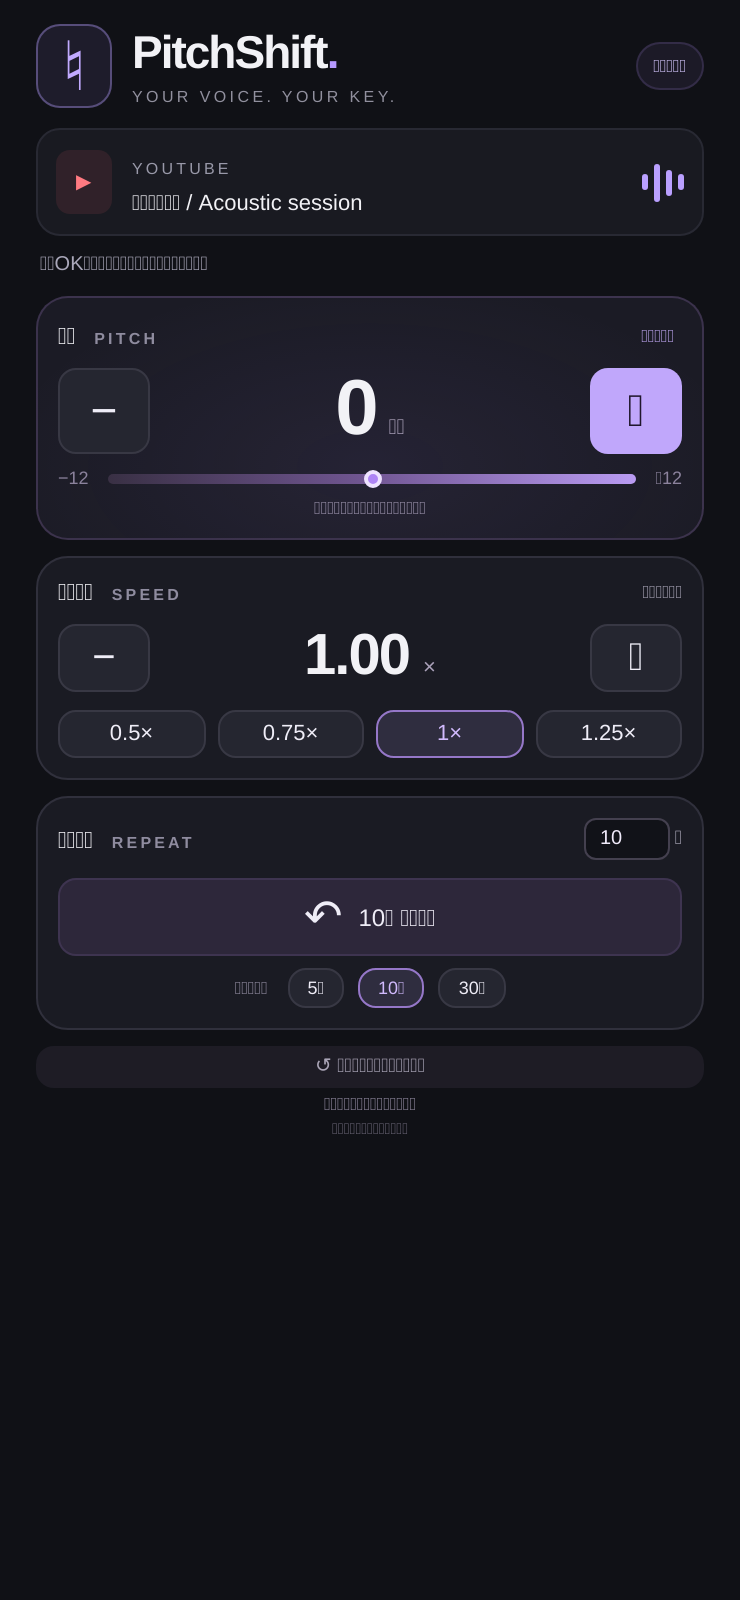
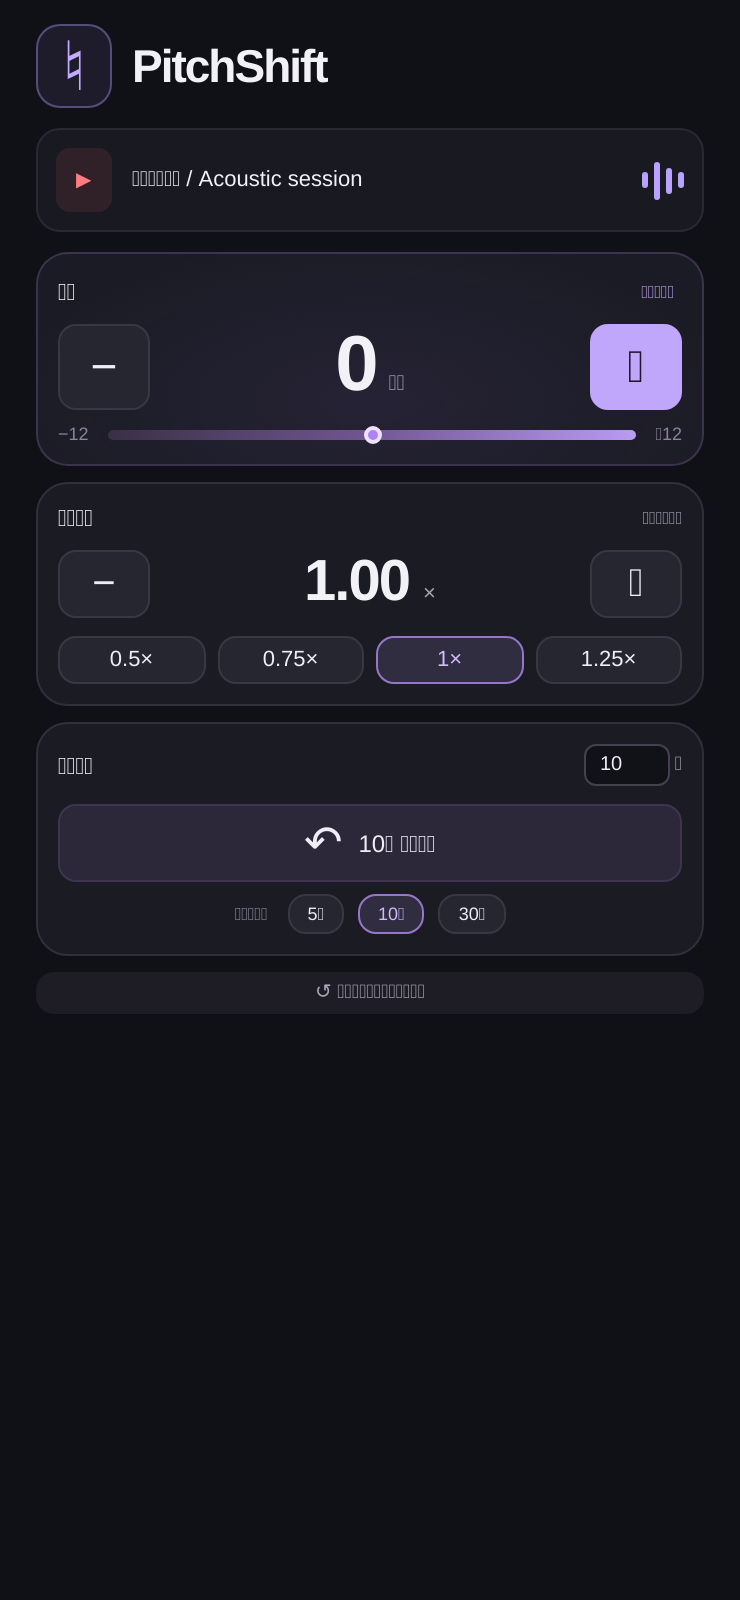
style: remove decorative popup copy

diff --git a/public/popup.css b/public/popup.css
@@ -1,4 +1,6 @@
-:root{font-family:Inter,-apple-system,BlinkMacSystemFont,"Segoe UI","Noto Sans JP",sans-serif;color:#f2f2f6;background:#101116;font-synthesis:none;color-scheme:dark}*{box-sizing:border-box}body{margin:0;width:370px}main{padding:23px 21px 18px}header,.brand,.section-heading,.stepper,.scale,.rewind-presets{display:flex;align-items:center;justify-content:space-between}.brand{gap:10px}.logo{display:grid;place-items:center;width:38px;height:42px;border:1px solid #b6a0fb60;border-radius:12px;background:#aa88ff18;color:#c1aaff;font-size:34px}h1{font-size:23px;letter-spacing:-1px;margin:0;font-weight:750}.dot{color:#b69aff}.brand p{font-size:8px;letter-spacing:1.7px;color:#91909e;margin:4px 0 0}.badge{font-size:9px;color:#cec1f7;background:#b596ff13;padding:6px 8px;border-radius:20px;border:1px solid #b596ff26}.track{display:flex;align-items:center;gap:10px;margin-top:23px;padding:12px;background:#191a21;border:1px solid #282933;border-radius:12px}.play-icon{background:#ff64701a;color:#ff7a81;font-size:10px;border-radius:7px;padding:10px}.track>div{min-width:0;flex:1}.eyebrow{font-size:8px;letter-spacing:1.6px;color:#9999a9}.track p{font-size:11px;white-space:nowrap;overflow:hidden;text-overflow:ellipsis;margin:4px 0 0}.signal{display:flex;align-items:center;gap:3px;height:20px}.signal i{height:8px;width:3px;background:#baa0ff;border-radius:3px}.signal i:nth-child(2){height:19px}.signal i:nth-child(3){height:13px}#message{font-size:10px;line-height:1.6;color:#aaa8ba;margin:10px 2px;min-height:16px}#message.error{color:#ff9fa7}fieldset{border:0;margin:0;padding:0;min-width:0}.card{border:1px solid #30303c;border-radius:16px;background:#1a1b23;padding:16px;margin-bottom:10px}.pitch{background:radial-gradient(ellipse at 50% 70%,#ad89ff12,transparent 80%),#1b1b25;border-color:#64517e70}.section-heading h2{font-size:12px;margin:0;font-weight:600}.section-heading h2 span{font-size:8px;letter-spacing:1.6px;color:#8f8c9f;margin-left:6px}button{font:inherit;cursor:pointer;border:1px solid #383844;color:#efedf7;background:#252630;border-radius:9px;transition:background .15s,transform .15s}button:hover:not(:disabled){background:#393343}button:active:not(:disabled){transform:translateY(1px)}button:focus-visible,input:focus-visible{outline:2px solid #c2a6ff;outline-offset:3px}button:disabled{opacity:.35;cursor:default}.text-button{font-size:9px;color:#b8a0e7;border:0;background:transparent;padding:4px}.stepper{margin:14px 0}.step{height:43px;width:46px;font-size:23px}.step.accent{background:#baa0f9;color:#20172d;border-color:transparent}.step.accent:hover:not(:disabled){background:#d0bbff}.reading{display:flex;align-items:baseline;justify-content:center;gap:7px}.reading output{font-size:52px;line-height:1.1;letter-spacing:-2px;font-weight:650;font-variant-numeric:tabular-nums}.reading>span{font-size:11px;color:#aaa1b9}.scale{gap:10px;font-size:9px;color:#8c839d}.scale>div{position:relative;height:5px;flex:1;border-radius:4px;background:linear-gradient(to right,#393044,#725794,#b99bf2)}.scale i{position:absolute;width:9px;height:9px;border:2px solid #eee2ff;background:#ae84f5;border-radius:50%;top:-2px;left:calc(var(--pitch,50%) - 4px)}.hint{text-align:center;font-size:10px;color:#9990aa;margin:12px 0 0}.mini{font-size:9px;color:#a5a2b3}.compact{margin:13px 0}.compact .reading output{font-size:33px;letter-spacing:-1px}.compact .step{height:34px;font-size:20px}.presets{display:flex;gap:6px}.presets button{flex:1;font-size:11px;padding:7px}.presets button[aria-pressed=true],.rewind-presets button[aria-pressed=true]{background:#baa0f921;border-color:#9577c8;color:#d1bafd}.seconds{font-size:10px;color:#a8a5b5}.seconds input{width:43px;border:1px solid #44404f;border-radius:6px;background:#111218;color:#f0eafa;padding:4px;text-align:center;font:inherit}.rewind{width:100%;display:flex;align-items:center;justify-content:center;gap:8px;margin-top:13px;padding:10px;font-size:12px;background:#2d273a;border-color:#6b548849}.rewind>span:first-child{font-size:23px;line-height:1}.rewind-presets{justify-content:center;gap:7px;margin-top:11px}.rewind-presets>span{font-size:9px;color:#908b9f;margin-right:3px}.rewind-presets button{font-size:9px;padding:4px 9px}.reset{width:100%;border:0;background:transparent;color:#aaa5b7;font-size:10px;padding:8px}footer{text-align:center;font-size:10px;color:#8e879d;margin-top:12px}footer span{display:block;margin-top:5px;font-size:8px;color:#696575}.sr-only{position:absolute;width:1px;height:1px;padding:0;overflow:hidden;clip:rect(0,0,0,0);white-space:nowrap}
+:root{font-family:Inter,-apple-system,BlinkMacSystemFont,"Segoe UI","Noto Sans JP",sans-serif;color:#f2f2f6;background:#101116;font-synthesis:none;color-scheme:dark}*{box-sizing:border-box}body{margin:0;width:370px}main{padding:23px 21px 18px}header,.brand,.section-heading,.stepper,.scale,.rewind-presets{display:flex;align-items:center;justify-content:space-between}.brand{gap:10px}.logo{display:grid;place-items:center;width:38px;height:42px;border:1px solid #b6a0fb60;border-radius:12px;background:#aa88ff18;color:#c1aaff;font-size:34px}h1{font-size:23px;letter-spacing:-1px;margin:0;font-weight:750}.track{display:flex;align-items:center;gap:10px;margin-top:23px;padding:12px;background:#191a21;border:1px solid #282933;border-radius:12px}.play-icon{background:#ff64701a;color:#ff7a81;font-size:10px;border-radius:7px;padding:10px}.track>div{min-width:0;flex:1}.track p{font-size:11px;white-space:nowrap;overflow:hidden;text-overflow:ellipsis;margin:4px 0 0}.signal{display:flex;align-items:center;gap:3px;height:20px}.signal i{height:8px;width:3px;background:#baa0ff;border-radius:3px}.signal i:nth-child(2){height:19px}.signal i:nth-child(3){height:13px}#message{font-size:10px;line-height:1.6;color:#aaa8ba;margin:10px 2px;min-height:16px}#message.error{color:#ff9fa7}fieldset{border:0;margin:0;padding:0;min-width:0}.card{border:1px solid #30303c;border-radius:16px;background:#1a1b23;padding:16px;margin-bottom:10px}.pitch{background:radial-gradient(ellipse at 50% 70%,#ad89ff12,transparent 80%),#1b1b25;border-color:#64517e70}.section-heading h2{font-size:12px;margin:0;font-weight:600}button{font:inherit;cursor:pointer;border:1px solid #383844;color:#efedf7;background:#252630;border-radius:9px;transition:background .15s,transform .15s}button:hover:not(:disabled){background:#393343}button:active:not(:disabled){transform:translateY(1px)}button:focus-visible,input:focus-visible{outline:2px solid #c2a6ff;outline-offset:3px}button:disabled{opacity:.35;cursor:default}.text-button{font-size:9px;color:#b8a0e7;border:0;background:transparent;padding:4px}.stepper{margin:14px 0}.step{height:43px;width:46px;font-size:23px}.step.accent{background:#baa0f9;color:#20172d;border-color:transparent}.step.accent:hover:not(:disabled){background:#d0bbff}.reading{display:flex;align-items:baseline;justify-content:center;gap:7px}.reading output{font-size:52px;line-height:1.1;letter-spacing:-2px;font-weight:650;font-variant-numeric:tabular-nums}.reading>span{font-size:11px;color:#aaa1b9}.scale{gap:10px;font-size:9px;color:#8c839d}.scale>div{position:relative;height:5px;flex:1;border-radius:4px;background:linear-gradient(to right,#393044,#725794,#b99bf2)}.scale i{position:absolute;width:9px;height:9px;border:2px solid #eee2ff;background:#ae84f5;border-radius:50%;top:-2px;left:calc(var(--pitch,50%) - 4px)}.mini{font-size:9px;color:#a5a2b3}.compact{margin:13px 0}.compact .reading output{font-size:33px;letter-spacing:-1px}.compact .step{height:34px;font-size:20px}.presets{display:flex;gap:6px}.presets button{flex:1;font-size:11px;padding:7px}.presets button[aria-pressed=true],.rewind-presets button[aria-pressed=true]{background:#baa0f921;border-color:#9577c8;color:#d1bafd}.seconds{font-size:10px;color:#a8a5b5}.seconds input{width:43px;border:1px solid #44404f;border-radius:6px;background:#111218;color:#f0eafa;padding:4px;text-align:center;font:inherit}.rewind{width:100%;display:flex;align-items:center;justify-content:center;gap:8px;margin-top:13px;padding:10px;font-size:12px;background:#2d273a;border-color:#6b548849}.rewind>span:first-child{font-size:23px;line-height:1}.rewind-presets{justify-content:center;gap:7px;margin-top:11px}.rewind-presets>span{font-size:9px;color:#908b9f;margin-right:3px}.rewind-presets button{font-size:9px;padding:4px 9px}.reset{width:100%;border:0;background:transparent;color:#aaa5b7;font-size:10px;padding:8px}.sr-only{position:absolute;width:1px;height:1px;padding:0;overflow:hidden;clip:rect(0,0,0,0);white-space:nowrap}
 /* Keep the complete practice panel within Chrome's 600px popup limit. */
-main{padding:16px 18px 12px}.track{margin-top:14px;padding:9px}#message{margin:7px 2px}.card{padding:12px;margin-bottom:8px}.stepper{margin:10px 0}.reading output{font-size:43px}.hint{margin-top:8px;font-size:9px}.compact{margin:9px 0}.compact .reading output{font-size:29px}.presets button{padding:5px}.rewind{padding:7px;margin-top:9px}.rewind-presets{margin-top:8px}footer{margin-top:6px;font-size:9px}footer span{margin-top:3px}.reset{padding:5px}
-main{padding-top:12px}.track{margin-top:10px}.card{padding:10px}.pitch .stepper{margin:7px 0}.hint{margin-top:5px}.rewind-presets{margin-top:6px}.reading output{font-size:39px}footer{margin-top:3px}
+main{padding:16px 18px 12px}.track{margin-top:14px;padding:9px}#message{margin:7px 2px}.card{padding:12px;margin-bottom:8px}.stepper{margin:10px 0}.reading output{font-size:43px}.compact{margin:9px 0}.compact .reading output{font-size:29px}.presets button{padding:5px}.rewind{padding:7px;margin-top:9px}.rewind-presets{margin-top:8px}.reset{padding:5px}
+main{padding-top:12px}.track{margin-top:10px}.card{padding:10px}.pitch .stepper{margin:7px 0}.rewind-presets{margin-top:6px}.reading output{font-size:39px}
+
+#message:empty{display:none}.track{margin-bottom:10px}.track p{margin:0}

diff --git a/public/popup.html b/public/popup.html
@@ -1,13 +1,13 @@
 <!doctype html>
 <html lang="ja"><head><meta charset="utf-8"><meta name="viewport" content="width=device-width, initial-scale=1"><title>PitchShift</title><link rel="stylesheet" href="popup.css"></head>
 <body><main>
-<header><div class="brand"><span class="logo" aria-hidden="true">♮</span><div><h1>PitchShift<span class="dot">.</span></h1><p>YOUR VOICE. YOUR KEY.</p></div></div><span class="badge">練習モード</span></header>
-<section class="track"><span class="play-icon" aria-hidden="true">▶</span><div><span class="eyebrow">YOUTUBE</span><p id="track-title">動画に接続しています…</p></div><span class="signal" aria-hidden="true"><i></i><i></i><i></i><i></i></span></section>
+<header><div class="brand"><span class="logo" aria-hidden="true">♮</span><div><h1>PitchShift</h1></div></div></header>
+<section class="track"><span class="play-icon" aria-hidden="true">▶</span><div><p id="track-title">動画に接続しています…</p></div><span class="signal" aria-hidden="true"><i></i><i></i><i></i><i></i></span></section>
 <div id="message" role="status" aria-live="polite">YouTubeの動画を確認しています…</div>
 <fieldset id="controls" disabled><legend class="sr-only">カラオケ練習コントロール</legend>
-<section class="card pitch"><div class="section-heading"><h2>キー <span>PITCH</span></h2><button class="text-button" id="pitch-zero">原曲に戻す</button></div><div class="stepper"><button class="step" id="pitch-down" aria-label="キーを半音下げる">−</button><div class="reading"><output id="pitch-value">0</output><span>半音</span></div><button class="step accent" id="pitch-up" aria-label="キーを半音上げる">＋</button></div><div class="scale" aria-hidden="true"><span>−12</span><div id="pitch-meter"><i></i></div><span>＋12</span></div><p class="hint">あなたの声に、ちょうどいいキーを。</p></section>
-<section class="card"><div class="section-heading"><h2>スピード <span>SPEED</span></h2><span class="mini">音程をキープ</span></div><div class="stepper compact"><button class="step" id="speed-down" aria-label="速度を0.05倍下げる">−</button><div class="reading"><output id="speed-value">1.00</output><span>×</span></div><button class="step" id="speed-up" aria-label="速度を0.05倍上げる">＋</button></div><div class="presets" aria-label="速度プリセット"><button data-speed="0.5">0.5×</button><button data-speed="0.75">0.75×</button><button data-speed="1">1×</button><button data-speed="1.25">1.25×</button></div></section>
-<section class="card rewind-card"><div class="section-heading"><h2>もう一度 <span>REPEAT</span></h2><label class="seconds"><input id="seconds" type="number" min="1" max="60" step="1" value="10" aria-label="巻き戻す秒数"> 秒</label></div><button id="rewind" class="rewind"><span aria-hidden="true">↶</span><span id="rewind-label">10秒 巻き戻す</span></button><div class="rewind-presets"><span>巻き戻し幅</span><button data-seconds="5">5秒</button><button data-seconds="10">10秒</button><button data-seconds="30">30秒</button></div></section>
+<section class="card pitch"><div class="section-heading"><h2>キー</h2><button class="text-button" id="pitch-zero">原曲に戻す</button></div><div class="stepper"><button class="step" id="pitch-down" aria-label="キーを半音下げる">−</button><div class="reading"><output id="pitch-value">0</output><span>半音</span></div><button class="step accent" id="pitch-up" aria-label="キーを半音上げる">＋</button></div><div class="scale" aria-hidden="true"><span>−12</span><div id="pitch-meter"><i></i></div><span>＋12</span></div></section>
+<section class="card"><div class="section-heading"><h2>スピード</h2><span class="mini">音程をキープ</span></div><div class="stepper compact"><button class="step" id="speed-down" aria-label="速度を0.05倍下げる">−</button><div class="reading"><output id="speed-value">1.00</output><span>×</span></div><button class="step" id="speed-up" aria-label="速度を0.05倍上げる">＋</button></div><div class="presets" aria-label="速度プリセット"><button data-speed="0.5">0.5×</button><button data-speed="0.75">0.75×</button><button data-speed="1">1×</button><button data-speed="1.25">1.25×</button></div></section>
+<section class="card rewind-card"><div class="section-heading"><h2>巻き戻し</h2><label class="seconds"><input id="seconds" type="number" min="1" max="60" step="1" value="10" aria-label="巻き戻す秒数"> 秒</label></div><button id="rewind" class="rewind"><span aria-hidden="true">↶</span><span id="rewind-label">10秒 巻き戻す</span></button><div class="rewind-presets"><span>巻き戻し幅</span><button data-seconds="5">5秒</button><button data-seconds="10">10秒</button><button data-seconds="30">30秒</button></div></section>
 <button id="reset" class="reset">↺ キーとスピードをリセット</button>
-</fieldset><footer>好きな曲を、自分のペースで。<span>音声はこの端末内だけで処理</span></footer>
+</fieldset>
 </main><script type="module" src="popup.js"></script></body></html>

diff --git a/src/popup.ts b/src/popup.ts
@@ -24,7 +24,7 @@ async function run(action: Action, value?: number) {
     const reply: Reply = await chrome.runtime.sendMessage({ target: 'background', action, value, tabId });
     if (!reply?.ok || !reply.state) throw new Error(reply?.error || '接続できませんでした。拡張を開き直してください。');
     state = reply.state; ready = true;
-    notice(action === 'rewind' ? `${seconds}秒巻き戻しました。` : state.pitch === 0 ? '準備OK。歌いやすいキーに合わせましょう。' : 'キー変更中 · パネルを閉じても練習を続けられます。');
+    notice(action === 'rewind' ? `${seconds}秒巻き戻しました。` : '');
   } catch (error) { notice(error instanceof Error ? error.message : String(error), true); }
   finally { busy = false; render(); }
 }

diff --git a/openspec/changes/add-pitchshift/specs/karaoke-controls/spec.md b/openspec/changes/add-pitchshift/specs/karaoke-controls/spec.md
@@ -35,3 +35,8 @@ The extension SHALL provide Japanese labels, keyboard-accessible buttons, curren
 #### Scenario: Initialize and reset without a numeric argument
 - **WHEN** the popup requests video status or resets practice without providing a value
 - **THEN** all injected script arguments are JSON-serializable and the request succeeds
+
+#### Scenario: Minimal functional copy
+- **WHEN** the popup is ready or pitch adjustment succeeds
+- **THEN** the popup shows functional labels and values without slogans, decorative English subtitles, a practice-mode badge, or an informational footer
+- **AND** loading, rewind feedback and actionable errors remain available

diff --git a/openspec/changes/add-pitchshift/tasks.md b/openspec/changes/add-pitchshift/tasks.md
@@ -17,3 +17,7 @@
 ## 4. Startup regression fix
 - [x] 4.1 Reproduce the reported unserializable argument error using the real Chrome scripting API
 - [x] 4.2 Supply a serializable default for status/reset and verify both against a video fixture
+
+## 5. Minimal UI copy
+- [x] 5.1 Remove decorative copy and redundant subtitles while keeping operational feedback
+- [x] 5.2 Rebuild the extension and refresh the browser-verified popup screenshot
